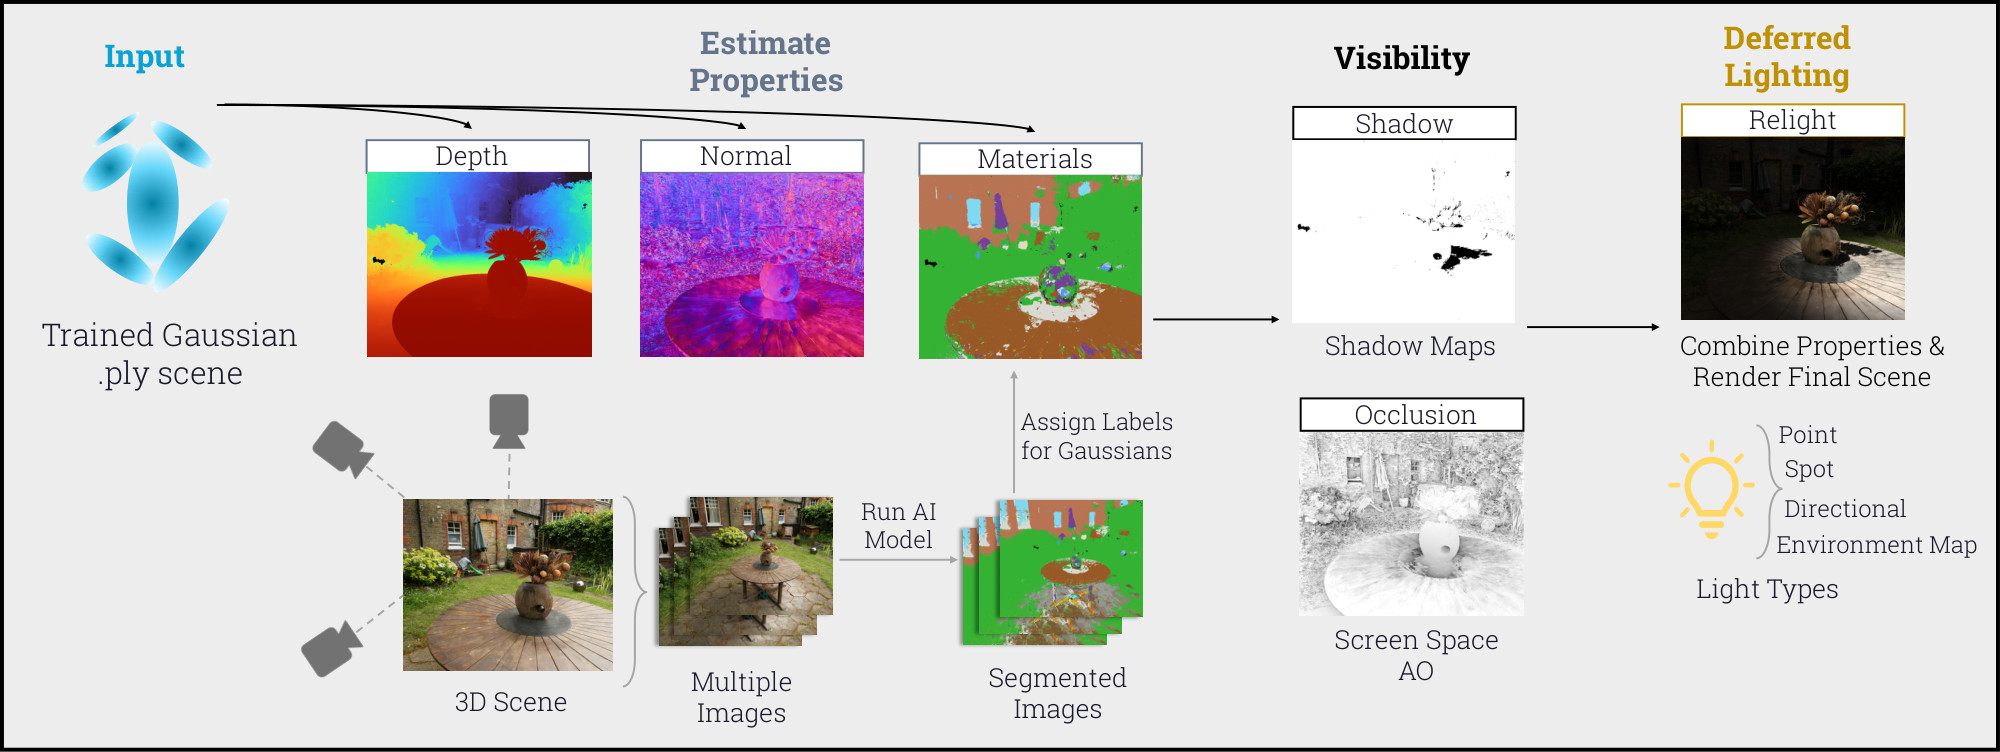
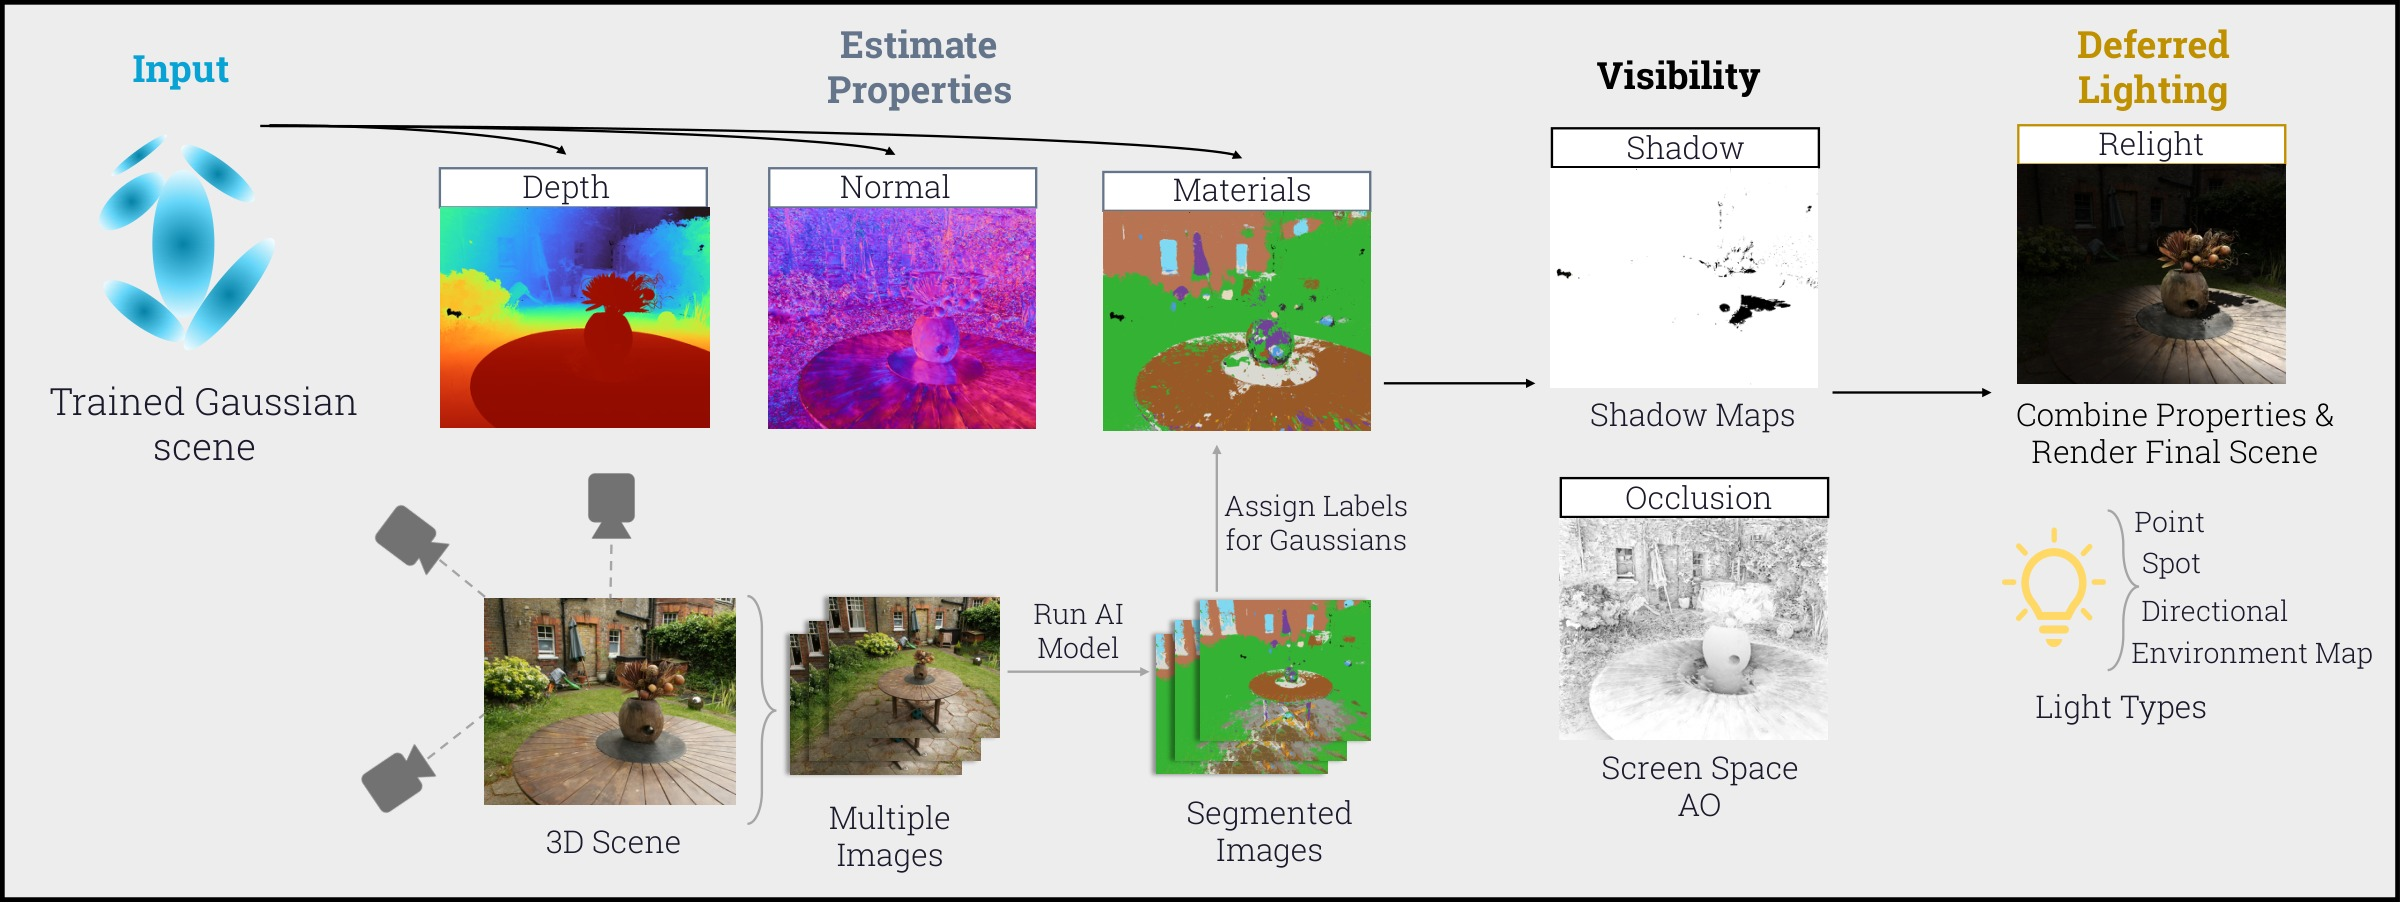
Update

diff --git a/projects/relightgs.html b/projects/relightgs.html
@@ -3,7 +3,7 @@
 <head>
     <meta charset="utf-8">
     <meta name="description"
-          content="ReLightGS: a deferred relighting pipeline for already trained 3D Gaussian Splatting scenes, operating directly on exported .ply models without retraining.">
+          content="ReLightGS: a deferred relighting pipeline for already trained 3D Gaussian Splatting scenes, operating directly on exported Gaussian models without retraining.">
     <meta name="keywords" content="3D Gaussian Splatting, Relighting, Deferred Shading, Inverse Rendering, PBR, Vulkan">
     <meta name="viewport" content="width=device-width, initial-scale=1">
     <title>ReLightGS: Relighting Existing 3D Gaussian Splatting Scenes Without Retraining</title>
@@ -374,7 +374,7 @@
                          style="max-width:840px; margin-left:auto; margin-right:auto;">
                     <div class="caption">
                         Comparison of the original 3D Gaussian Splatting appearance and our relit result,
-                        produced directly from the fixed <code>.ply</code> model without retraining.
+                        produced directly from the fixed Gaussian splatting model without retraining.
                     </div>
                 </div>
             </div>
@@ -391,19 +391,19 @@
                     <p>
                         3D Gaussian Splatting (3DGS) enables high-quality real-time novel-view synthesis,
                         but standard trained Gaussian scenes provide little control over illumination. Their
-                        learned appearance entangles lighting, material appearance, and view-dependent effects,
-                        making existing assets difficult to relight without the original training images or
-                        additional optimization.
+                        learned appearance entangles lighting and material appearance, making existing scenes
+                        difficult to relight without the original training images or additional optimization.
                     </p>
                     <p>
                         We propose <strong>ReLightGS</strong>, a deferred relighting pipeline for already trained
-                        3DGS scenes that operates directly on fixed exported Gaussian models. The method constructs
-                        a Gaussian G-buffer, reconstructs approximate depth and normals, assigns PBR material
-                        parameters from lifted material labels, and computes illumination with approximate visibility
-                        and occlusion. We evaluate on pretrained vanilla 3DGS scenes from the TensoIR Synthetic
-                        dataset under multiple HDR environment maps and compare against inverse-rendering baselines.
-                        Results show that plausible relighting is possible without retraining, although baked
-                        illumination and approximate geometry remain limitations.
+                        3DGS scenes that operates directly on fixed exported Gaussian models, without access to the
+                        images used to train them and without further retraining. The method constructs a Gaussian
+                        G-buffer, reconstructs approximate depth and normals, assigns PBR material parameters from
+                        lifted material labels, and computes illumination with approximate visibility and occlusion.
+                        Our evaluation uses pretrained vanilla 3DGS scenes from the TensoIR Synthetic dataset under
+                        multiple HDR environment maps with comparison to inverse-rendering baselines. Our approach
+                        shows that plausible relighting is possible without retraining, although baked illumination
+                        and approximate geometry remain limitations.
                     </p>
                 </div>
             </div>
@@ -436,7 +436,7 @@
                 <img src="../images/relightgs/pipeline.jpg" class="teaser-media"
                      alt="ReLightGS pipeline overview" style="margin-bottom:0.5rem;">
                 <div class="caption">
-                    Our method pipeline: from a fixed Gaussian <code>.ply</code> to a relit image.
+                    Our method pipeline: from a fixed Gaussian scene to a relit image.
                 </div>
             </div>
         </div>
@@ -503,7 +503,10 @@
                             </tr>
                             <tr class="ours-row">
                                 <td class="lcol">Ours</td>
-                                <td class="r2 mae">4.780</td><td class="r2">25.920</td><td class="r2">0.906</td><td class="r2">0.095</td>
+                                <td class="r2 mae">4.780</td>
+                                <td class="r2">25.920</td>
+                                <td class="r2">0.906</td>
+                                <td class="r2">0.095</td>
                             </tr>
                         </tbody>
                     </table>
@@ -521,7 +524,7 @@
                         </video>
                         <div class="caption">
                             All four scenes relit under a city environment, produced directly from the
-                            fixed <code>.ply</code> models.
+                            fixed Gaussian models.
                         </div>
                     </div>
                     <div>

diff --git a/index.html b/index.html
@@ -574,7 +574,7 @@
 
                         <h3>ReLightGS</h3>
 
-                        <p>Relighting already-trained 3D Gaussian Splatting scenes from a fixed exported .ply,
+                        <p>Relighting already-trained 3D Gaussian Splatting scenes from a fixed exported Gaussian model,
                             without retraining.</p>
 
                         <div class="card-actions">